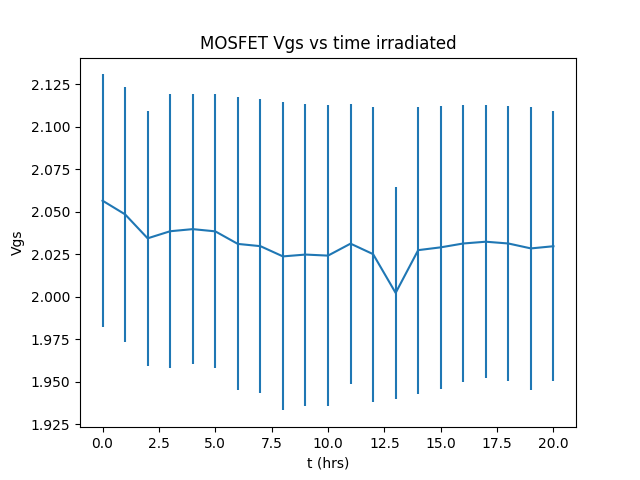
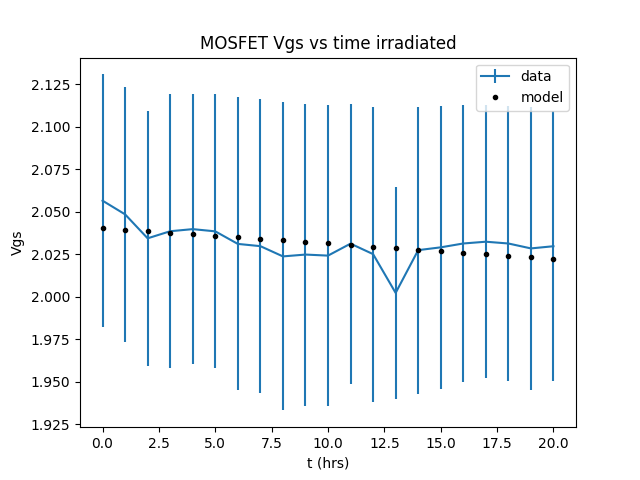
added models to VgsT graphs

diff --git a/analysis.py b/analysis.py
@@ -3,7 +3,7 @@ import numpy as np
 import matplotlib.pyplot as plt
 import scipy.stats as stats
 
-data_file = 'Data/mosfet_overweekend_beta.xml'
+data_file = 'Data/mosfet_beta92_overnight.xml'
 tree = ET.parse(data_file) 
 root = tree.getroot()
 datasets = []
@@ -23,11 +23,6 @@ for dataset in root:
     item = [[currents, current_std], [voltages, voltage_std]]
     datasets.append(item)
 
-
-times = range(0,len(root))
-# z = np.polyfit(voltages, currents, 1)
-# Y1p = np.poly1d(z)
-
 threshold_voltages = []
 threshold_voltages_errors = []
 for dataset in datasets:
@@ -46,9 +41,14 @@ for dataset in datasets:
     threshold_voltages.append(threshold_voltage)
     threshold_voltages_errors.append(threshold_voltages_error)
 
-plt.errorbar(times, threshold_voltages, yerr = threshold_voltages_errors)
+times = range(0,len(root))
+z = np.polyfit(times, threshold_voltages, 1)
+Y1p = np.poly1d(z)
+
+plt.errorbar(times, threshold_voltages, yerr = threshold_voltages_errors, label = "data")
+plt.errorbar(times, Y1p(times), fmt = '.', color = "black", label = 'model')
 title = "MOSFET Vgs vs time irradiated"
-# plt.legend()
+plt.legend()
 plt.title(title)
 plt.ylabel('Vgs')
 plt.xlabel('t (hrs)')
